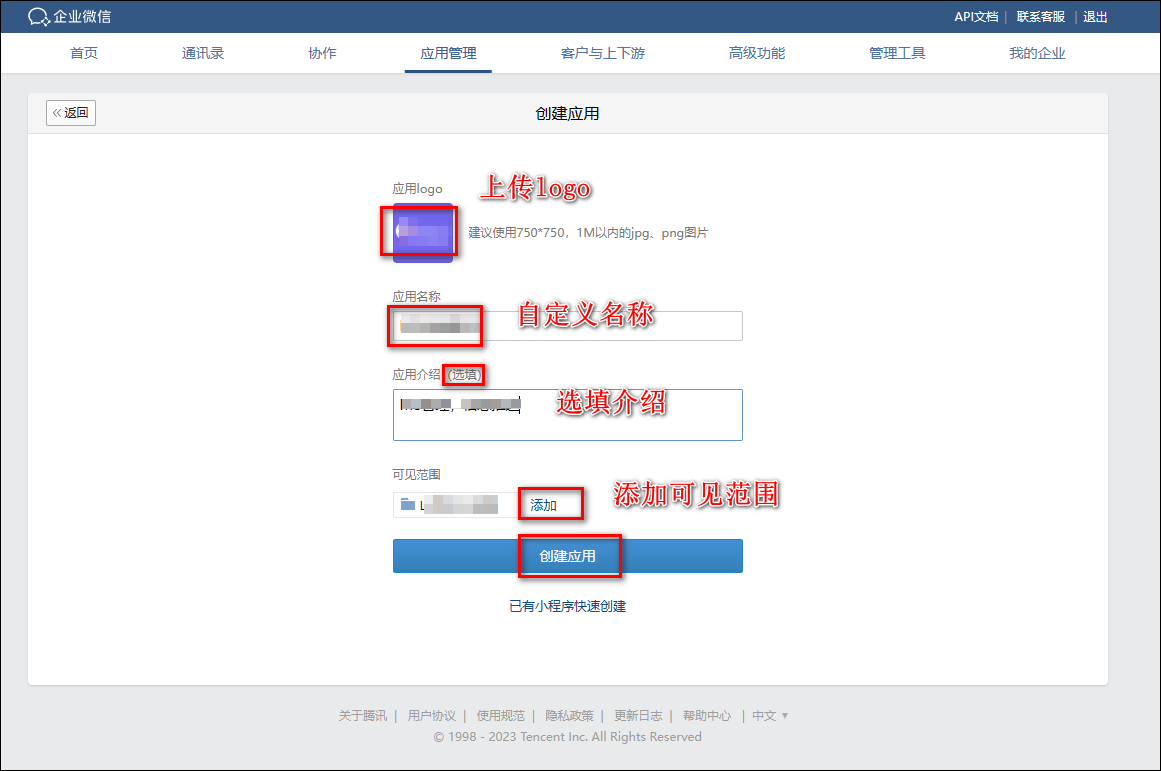
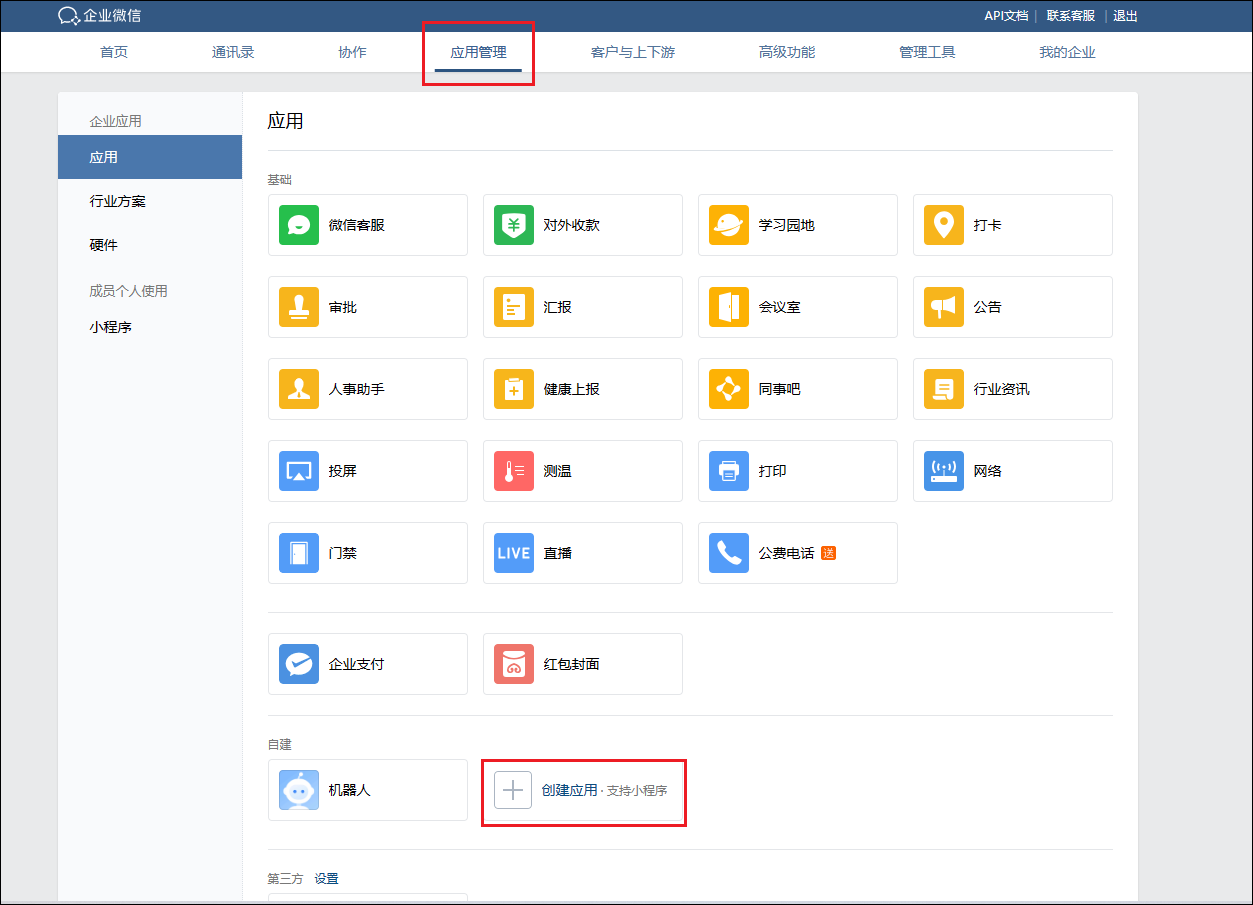
微信通知wiki更新

diff --git a/docs/02.使用文档/06.其它/07.微信消息通知.md b/docs/02.使用文档/06.其它/07.微信消息通知.md
@@ -25,91 +25,68 @@ permalink: /docs/other/weixin
 
 ![img](./images/0702.png)
 
-4、打开“应用管理”目录下的创建应用
+4、点击右上角我的企业，在页面最下方获取企业id
 
 ![img](./images/0703.png)
 
-5、填写必要信息，创建应用。
+
+5、打开“应用管理”然后在自建中点击创建应用
 
 ![img](./images/0704.png)
 
-6、应用管理界面获取信息
-
-1）在页面上可以直接看到信息 3
+6、填写必要信息，创建应用。
 
 ![img](./images/0705.png)
 
-2）点击查看后，手机端企业微信收到的来自企业微信团队的信息 2
+7、获取企业微信信息和应用信息
+
+1）在应用管理界面可以直接看到`AgentId`
 
 ![img](./images/0706.png)
 
-3）在我的企业里查看信息 1
+2）点击`Secret`的查看，即可在手机端企业微信获取到`Secret`
 
 ![img](./images/0707.png)
 
-4）点击设置 API 接收，在这个页面先填写好 ms 外网地址，然后点击随机获取了信息 4 和 5，此时先不要着急点保存，否则会出现回调地址请求不通过。
+4）点击设置 API 接收
 
 ![img](./images/0708.png)
 
-7、我们来到 ms 界面，先把获取到 5 个信息，在 ms 配置界面填好以后，点击确定，保存好。代理服务器的话，如果使用企微可信 IP 插件的话可以不用填写。
+5）填写URL
+`https://ip:port/api/v1/messageWechat/endPoint/AgentId`
+```
+# ip:你的域名
+# port:你的反代端口
+# AgentId:你的企业微信应用AgentId
+```
+6）随机获取`Token`和`EncodingAESKey`
+
+不要点击保存
+
+8、在media-saber的系统设置——消息通知界面，点击添加渠道
 
 ![img](./images/0709.png)
 
-8、然后我们再回到刚刚的企业微信的 API 接收配置页面，点击保存，会出现保存成功的提示，此时我们 API 接收变成已启用状态。
+在弹出框中填入获取到 5 个信息（`企业微信ID`、`AgentId`、`Secret`、`Token`、`EncodingAESKey`），填入微信代理：`http://ip:port`在 ms 配置界面填好以后，勾选`是否交互`，在下方推送业务类型中勾选需要推送的业务，点击确定，保存好。（`ps：推荐全选所有推送业务`）
 
 ![img](./images/0710.png)
 
-9、最后我们继续往下滑，找到企业可信 IP 并填写你的公网 IP。
+8、然后我们再回到刚刚的企业微信的 API 接收配置页面，点击保存，会出现保存成功的提示，此时我们 API 接收变成已启用状态。
 
 ![img](./images/0711.png)
 
-可以使用插件[企微可信 IP](/docs/plugin/qiweiIP)自动获取可信 IP。
+9、点击返回，下滑，找到企业可信 IP 点击编辑，在弹出对话框中填入微信代理ip后点击确定即可。
 
-10、然后我们在 ms 的界面，点击测试，测试成功后我们会在企业微信接收到一条信息，表示设置成功。
-
+![img](./images/0712.png)
 ![img](./images/0713.png)
 
 > 在企业微信控制台`我的企业->微信插件`找到邀请关注二维码，使用微信扫码后可直接在微信使用，无需打开企业微信客户端。
 
 ## 微信交互菜单配置
 
-1、在应用管理界面找到自定义菜单，点击设置。
+1、media-saber页面点击`设置——消息通知`，点击刚刚创建的`微信通知`，点击`生成菜单`。
 
-![img](./images/0715.png)
-
-2、微信交互菜单配置
-
-- 菜单对应关系，配置 WeChat 应用中配置的菜单 ID 与执行命令的对应关系，需要手工修改
-- 菜单序号在https://work.weixin.qq.com/wework_admin/frame#apps 应用自定义菜单中维护，然后看日志输出的菜单序号是啥（按顺利能猜到的）....
-- 命令对应关系：`/ptt` 下载文件转移；`/ptr` 删种；`/pts` 站点签到；`/rst` 目录同步；`/db` 豆瓣同步；`/utf` 重新识别；`/ssa` 订阅搜索；`/tbl` 清理转移缓存；`/trh` 清理 RSS 缓存；`/rss` RSS 下载；`/sta` 数据统计
-
-- 微信菜单必须遵守以下顺序：
-
-```bash
- 第1列第1个菜单：  下载->下载文件转移
- 第1列第2个菜单：  下载->删种
- 第1列第3个菜单：   下载->RSS下载
- 第1列第4个菜单：   下载->订阅搜索
- 第2列第1个菜单：   同步->目录同步
- 第2列第2个菜单：  同步->豆瓣同步
- 第2列第3个菜单：   同步->重新识别
- 第3列第1个菜单：  管理->站点签到
- 第3列第2个菜单：   管理->清理转移缓存
- 第3列第3个菜单：  管理->清理RSS缓存
- 第3列第4个菜单：   管理->数据统计
-```
-
-3、自定义菜单一定要严格按照上面的顺序，比如添加第 1 列的第一个菜单是下载：
-
-![img](./images/0716.png)
-
-4、全部设置完成后如图所示，然后点击发布。
-
-![img](./images/0717.png)
-
-5、此时我们打开 MS 信息推送应用，他下面已经有菜单了，并且点击对应的菜单，比如数据统计，会发送对应的信息。
-
-<img src="./images/0718.png" alt="drawing" width="200"/>
+![img](./images/0714.png)
 
 ## 微信代理参考
 
